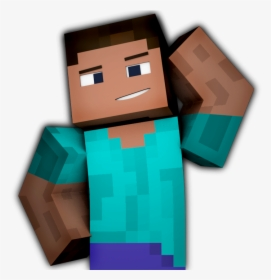
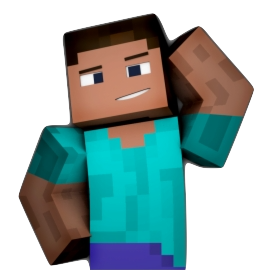
Feat: add background image and restyle textbox

Changed region(s): [[0.0295, 0.0286, 0.797, 0.9714], [0.679, 0.1429, 0.9742, 0.9714]]

diff --git a/src/main/resources/view/style.css b/src/main/resources/view/style.css
@@ -1,0 +1,4 @@
+.background {
+    -fx-background-image:url('../images/mcsky.png');
+    -fx-background-size: cover;
+}
